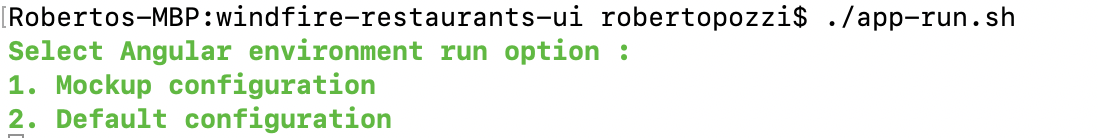
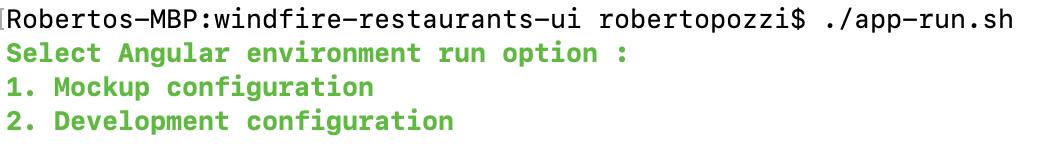
update for configuration reading

Changed region(s): [[0.0, 0.2319, 0.6072, 0.9565], [0.0, 0.029, 0.9715, 0.2319], [0.0, 0.9565, 0.0304, 1.0]]

diff --git a/src/app/restaurant/services/restaurant.service.ts b/src/app/restaurant/services/restaurant.service.ts
@@ -47,10 +47,12 @@ export class RestaurantService {
   }
 
   private getEnv() {
-    this.restaurantServiceBaseUrl = this.appConfigService.getConfig().restaurantServiceBaseUrl
-    if (this.restaurantServiceBaseUrl == '') {
-      console.log('restaurantServiceBaseUrl is void, reading from Angular environment conf');
+    if (environment.environment == 'dev' && !environment.mock) {
+      console.log('Reading configuration from environment.ts ...')
       this.restaurantServiceBaseUrl = environment.restaurantServiceBaseUrl
+    } else if (!environment.mock){
+      console.log('Reading configuration from assets/config/config.json file ...')
+      this.restaurantServiceBaseUrl = this.appConfigService.getConfig().RESTAURANT_SVC_BASEURL
     }
     console.log('restaurantServiceBaseUrl =  ' + this.restaurantServiceBaseUrl);
   }

diff --git a/src/environments/environment.mockup.ts b/src/environments/environment.mockup.ts
@@ -1,5 +1,5 @@
 export const environment = {
-  production: true,
+  production: false,
   environment: 'mockup',
   mock: true,
   restaurantServiceBaseUrl: ''

diff --git a/src/environments/environment.prod.ts b/src/environments/environment.prod.ts
@@ -1,0 +1,6 @@
+export const environment = {
+  production: true,
+  environment: 'prod',
+  mock: false,
+  restaurantServiceBaseUrl: ''
+};

diff --git a/README.md b/README.md
@@ -15,7 +15,7 @@ Script **app-run.sh** is provided to start the application, letting choose which
 
 Options are the following:
 * *Mockup configuration* uses environment configuration defined in *src/environment/environment.mockup.ts*, which basically mocks the Restaurant Service, returning a fixed restaurant list. No other microservice is actually invoked;
-* *Default configuration* uses standard environment configuration, pointing to *Windfire Restaurant Backend* microservice endpoint, to which restaurant list retrieval is delegated; the endpoint is read from RESTAURANT_SRV_BASEURL environment variable or, if not found, alternatively from *src/environment/environment.ts* configuration file.
+* *Development configuration* uses standard environment configuration, pointing to *Windfire Restaurant Backend* microservice endpoint, to which restaurant list retrieval is delegated; the endpoint is read from *src/environment/environment.ts* configuration file.
 
 ## DevOps automation
 Automation is implemented using Ansible technology (https://www.ansible.com/): refer to Ansible technical documentation (https://docs.ansible.com/) for detailed instructions regarding installation and setup.
@@ -26,7 +26,7 @@ The **deploy.sh** script is provided to run deployment automation tasks, as it c
 
 The script currently exposes 3 deployment options:
 * *Raspberry (with restaurants mockup)* : it automates *Windfire Restaurants UI* microservice deployment to a Raspberry Pi, enabling the *Mockup configuration* (as defined in *src/environment/environment.mockup.ts*)
-* *Raspberry* : it automates *Windfire Restaurants UI* microservice deployment to a Raspberry Pi, enabling the *Default configuration* (as defined in *src/environment/environment.ts*)
+* *Raspberry* : it automates *Windfire Restaurants UI* microservice deployment to a Raspberry Pi; configuration parameters are read from *config-raspberry.json* file, placed in *src/assets/config* subfolder
 * *AWS (Single Zone with publicly accessible subnets)* : it automates *Windfire Restaurants UI* microservice deployment to an AWS architecture with publicly accessible Frontend and Backend subnets
 
 ### Raspberry deployment architecture
